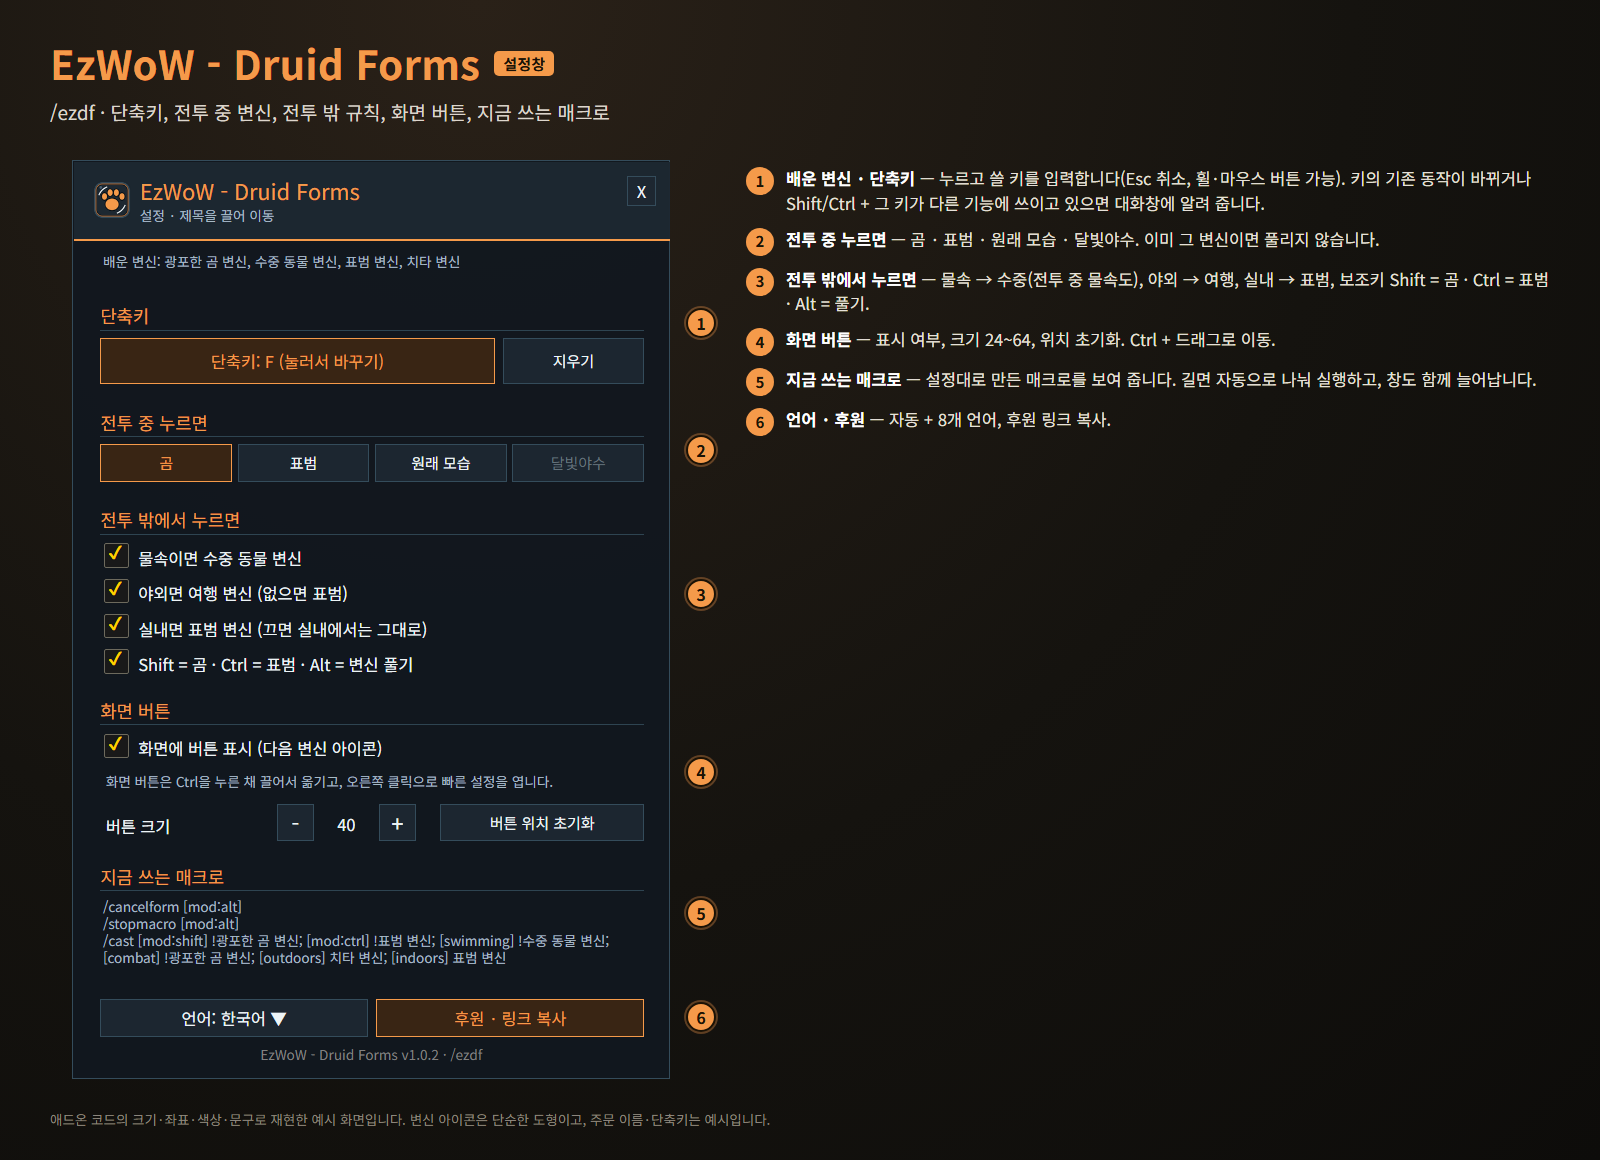
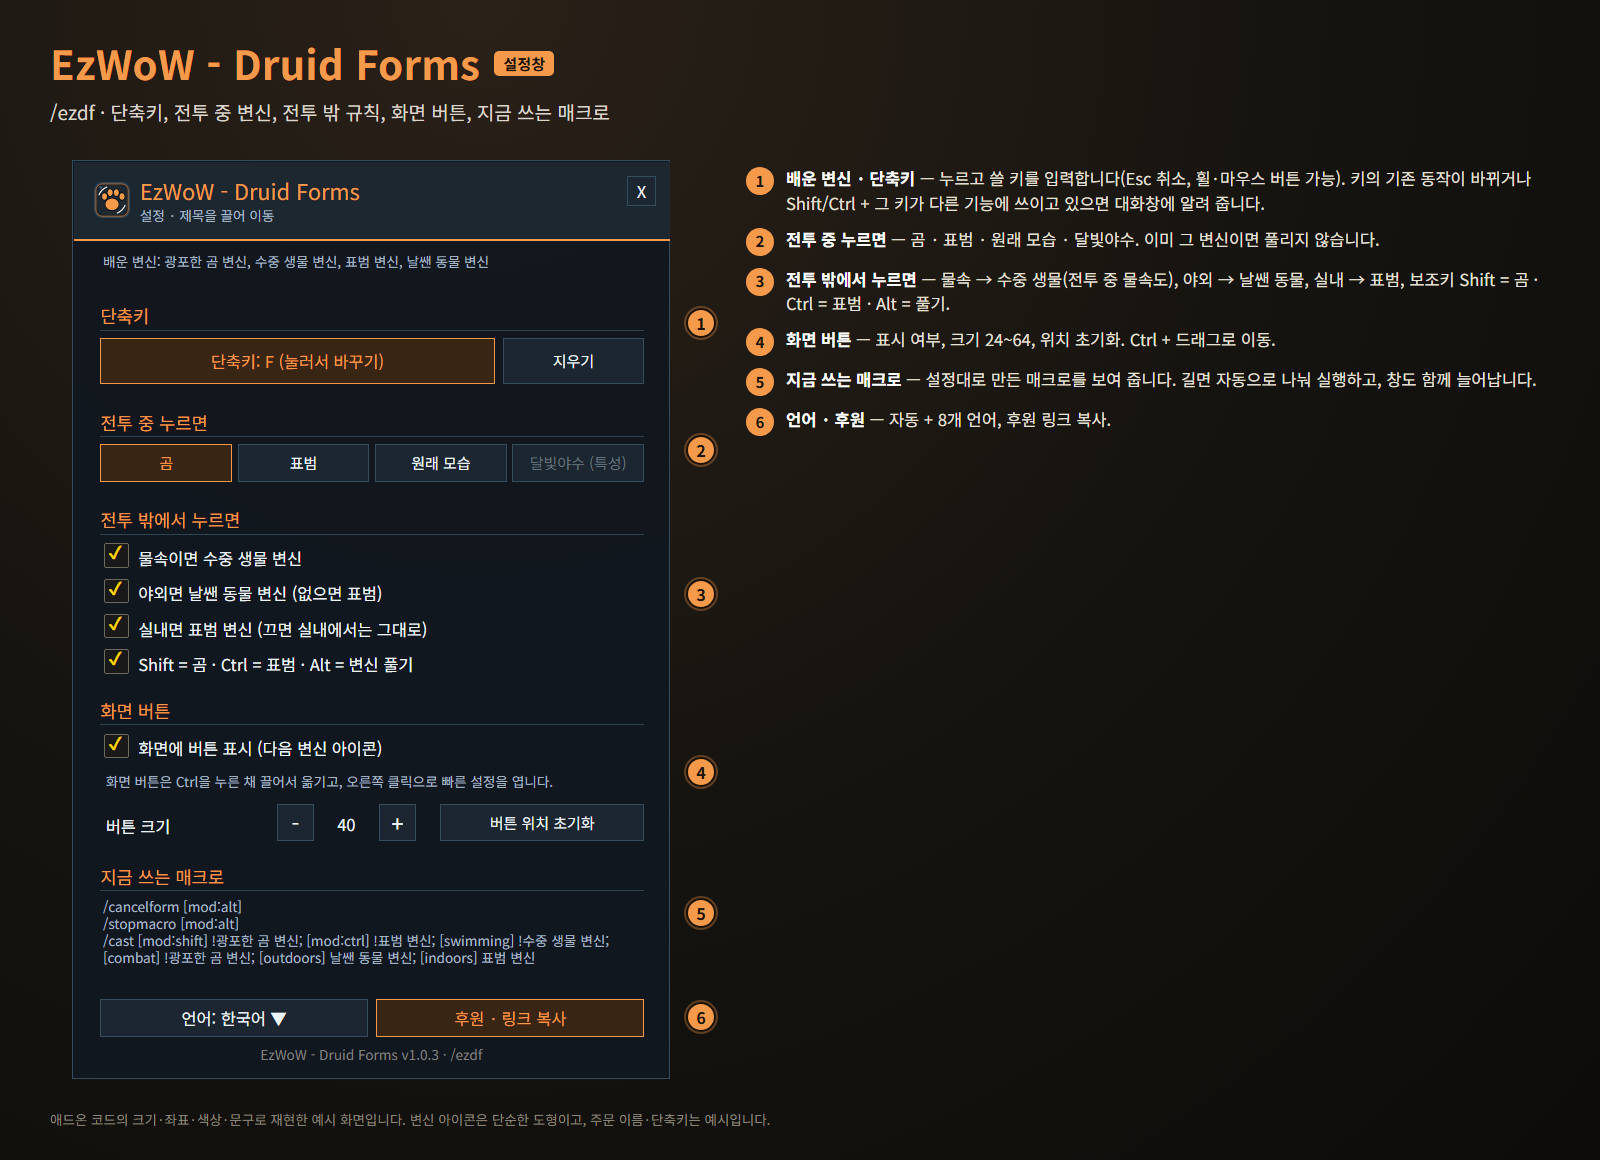
[2026-11-09 19:50] 최신 DB 적용 (Apply latest DB)

diff --git a/scripts/make_readme_images.py b/scripts/make_readme_images.py
@@ -41,7 +41,7 @@ FONT = "'Noto Sans KR','Malgun Gothic',sans-serif"
 # Example character: a feral druid around level 40 (Moonkin Form not learned).
 # Stance bar order = learn order: 1 bear, 2 aquatic, 3 cat, 4 travel.
 FORMS = {
-    "ko": {"bear": (1, "광포한 곰 변신"), "aquatic": (2, "수중 동물 변신"), "cat": (3, "표범 변신"), "travel": (4, "치타 변신")},
+    "ko": {"bear": (1, "광포한 곰 변신"), "aquatic": (2, "수중 생물 변신"), "cat": (3, "표범 변신"), "travel": (4, "날쌘 동물 변신")},
     "en": {"bear": (1, "Dire Bear Form"), "aquatic": (2, "Aquatic Form"), "cat": (3, "Cat Form"), "travel": (4, "Travel Form")},
 }
 FORM_ORDER = ["bear", "aquatic", "cat", "travel", "moonkin"]
@@ -99,6 +99,20 @@ def read_locales(root):
     return out
 
 
+# same as ns.FormLabel: "(level 30)" / "(talent)" after a form not learned yet
+LEARN_AT = {"bear": 10, "aquatic": 16, "cat": 20, "travel": 30, "moonkin": "talent"}
+OPTION_FORM = {"useAquatic": "aquatic", "useTravel": "travel"}
+
+
+def form_label(L, text, kind, forms):
+    at = LEARN_AT.get(kind)
+    if not at or kind in forms:
+        return text
+    if at == "talent":
+        return text + " " + L["learnTalent"]
+    return text + " " + L["learnLevel"].replace("%d", str(at))
+
+
 def read_version(root):
     m = re.search(r"^## Version:\s*(\S+)", (root / "EzWoW-DruidForms.toc").read_text(encoding="utf-8"), re.M)
     return m.group(1) if m else ""
@@ -111,8 +125,8 @@ TEXT = {
         "badge": "설정창", "langLabel": "한국어",
         "sitTitle": "한 번 누르면",
         "sitRows": [
-            ("물속 (전투 중에도)", "aquatic", "수중 동물 변신 (켰을 때)"),
-            ("전투 밖 · 야외", "travel", "여행 변신 (없으면 표범)"),
+            ("물속 (전투 중에도)", "aquatic", "수중 생물 변신 (켰을 때)"),
+            ("전투 밖 · 야외", "travel", "날쌘 동물 변신 (없으면 표범)"),
             ("전투 밖 · 실내", "cat", "표범 변신 (끌 수 있음)"),
             ("야외·실내에서 다시", "caster", "원래 모습 (전투 밖)"),
             ("전투 중", "bear", "고른 변신 · 기본 곰"),
@@ -124,7 +138,7 @@ TEXT = {
             ("화면 버튼", "왼쪽 클릭으로 변신합니다. 아이콘은 지금 누르면 될 변신으로 계속 바뀝니다."),
             ("단축키", "지정한 키가 오른쪽 위에 짧게 보입니다."),
             ("전투 중 변신", "왼쪽 아래 글자는 전투 중에 누르면 될 변신입니다."),
-            ("빠른 설정 · 전투 중", "오른쪽 클릭으로 엽니다. 곰·표범·원래 모습·달빛야수 중 고르고, 배우지 않은 변신은 회색입니다."),
+            ("빠른 설정 · 전투 중", "오른쪽 클릭으로 엽니다. 곰·표범·원래 모습·달빛야수 중 고르고, 배우지 않은 변신은 회색이고 배우는 레벨이 함께 나옵니다."),
             ("빠른 설정 · 전투 밖", "물속·야외·실내 규칙과 Shift/Ctrl/Alt를 켜고 끕니다. 전투 중에 바꾸면 전투가 끝난 뒤 적용됩니다."),
             ("그 밖", "단축키 지정(설정 창에서 키 입력 대기), 설정 창 열기."),
             ("이동", "Ctrl을 누른 채 끌어서 옮깁니다. 위치는 저장되고 설정 창에서 초기화합니다."),
@@ -132,7 +146,7 @@ TEXT = {
         "sNotes": [
             ("배운 변신 · 단축키", "누르고 쓸 키를 입력합니다(Esc 취소, 휠·마우스 버튼 가능). 키의 기존 동작이 바뀌거나 Shift/Ctrl + 그 키가 다른 기능에 쓰이고 있으면 대화창에 알려 줍니다."),
             ("전투 중 누르면", "곰 · 표범 · 원래 모습 · 달빛야수. 이미 그 변신이면 풀리지 않습니다."),
-            ("전투 밖에서 누르면", "물속 → 수중(전투 중 물속도), 야외 → 여행, 실내 → 표범, 보조키 Shift = 곰 · Ctrl = 표범 · Alt = 풀기."),
+            ("전투 밖에서 누르면", "물속 → 수중 생물(전투 중 물속도), 야외 → 날쌘 동물, 실내 → 표범, 보조키 Shift = 곰 · Ctrl = 표범 · Alt = 풀기."),
             ("화면 버튼", "표시 여부, 크기 24~64, 위치 초기화. Ctrl + 드래그로 이동."),
             ("지금 쓰는 매크로", "설정대로 만든 매크로를 보여 줍니다. 길면 자동으로 나눠 실행하고, 창도 함께 늘어납니다."),
             ("언어 · 후원", "자동 + 8개 언어, 후원 링크 복사."),
@@ -158,7 +172,7 @@ TEXT = {
             ("On-screen button", "Left-click to shift. The icon always shows the form the next press gives."),
             ("Key", "The bound key, shortened, in the top right corner."),
             ("Combat form", "The bottom-left label is the form a press in combat goes to."),
-            ("Quick menu · combat", "Right-click to open. Pick Bear, Cat, Caster or Moonkin; forms you have not learned are grey."),
+            ("Quick menu · combat", "Right-click to open. Pick Bear, Cat, Caster or Moonkin; forms you have not learned are grey, with the level they come at."),
             ("Quick menu · out of combat", "Toggle the water / outdoors / indoors rules and Shift/Ctrl/Alt. Changes made in combat apply when it ends."),
             ("More", "Set the key (opens settings and waits for a key), open settings."),
             ("Move", "Hold Ctrl and drag. The position is saved; reset it in settings."),
@@ -287,9 +301,9 @@ def ui_page(lang, L, icon_uri):
             menu.append(f'<div class="abs nw" style="{inner}display:flex;align-items:center;padding-left:{g(8)};color:{ACCENT}">{esc(L[row[1]])}</div>')
             continue
         if row[0] == "r":
-            text, on, avail = L["form_" + row[1]], DB["combatForm"] == row[1], row[2]
+            text, on, avail = form_label(L, L["form_" + row[1]], row[1], f), DB["combatForm"] == row[1], row[2]
         elif row[0] == "c":
-            text, on, avail = L["opt_" + row[1]], DB[row[1]], row[2]
+            text, on, avail = form_label(L, L["opt_" + row[1]], OPTION_FORM.get(row[1]), f), DB[row[1]], row[2]
         else:
             text, on, avail = L["menu_" + row[1]], None, True
         color = (ACCENT if on else C["textBody"]) if avail else C["disabled"]
@@ -413,12 +427,12 @@ def settings_page(lang, L, icon_uri, version):
     for i, kind in enumerate(("bear", "cat", "caster", "moonkin")):
         avail = kind == "caster" or kind in f
         cls = "acc" if (avail and DB["combatForm"] == kind) else ("" if avail else "off")
-        btn(20 + i * 101, 208, 97, 28, L["form_" + kind], 11, cls)
+        btn(20 + i * 101, 208, 97, 28, form_label(L, L["form_" + kind], kind, f), 11, cls)
     section("secPlace", 254)
 
     def option(y, key):
         p.append(f'<div class="check" style="{g.box(23, y + 3, 18, 18)}"></div>')
-        lbl(48, y + 5, L["opt_" + key], 12, C["textBody"])
+        lbl(48, y + 5, form_label(L, L["opt_" + key], OPTION_FORM.get(key), f), 12, C["textBody"])
     for y, key in ((278, "useAquatic"), (304, "useTravel"), (330, "indoorCat"), (356, "useModifiers")):
         option(y, key)
     section("secButton", 394)

diff --git a/README.md b/README.md
@@ -15,8 +15,8 @@ One key for the right druid form.
 
 | 상황 | 누르면 |
 |---|---|
-| 물속 (전투 중에도) | 수중 동물 변신 ("물속이면 수중 동물 변신"을 켰을 때). 이미 수중 동물이면 그대로 |
-| 전투 밖 · 야외 | 여행 변신 (없으면 표범) |
+| 물속 (전투 중에도) | 수중 생물 변신 ("물속이면 수중 생물 변신"을 켰을 때). 이미 수중 생물이면 그대로 |
+| 전투 밖 · 야외 | 날쌘 동물 변신 (없으면 표범) |
 | 전투 밖 · 실내 | 표범 변신 (끌 수 있음) |
 | 전투 밖 · 야외·실내에서 이미 그 변신 | 원래 모습 |
 | 전투 중 | 고른 변신(곰 / 표범 / 원래 모습 / 달빛야수). 이미 그 변신이면 풀리지 않음 |
